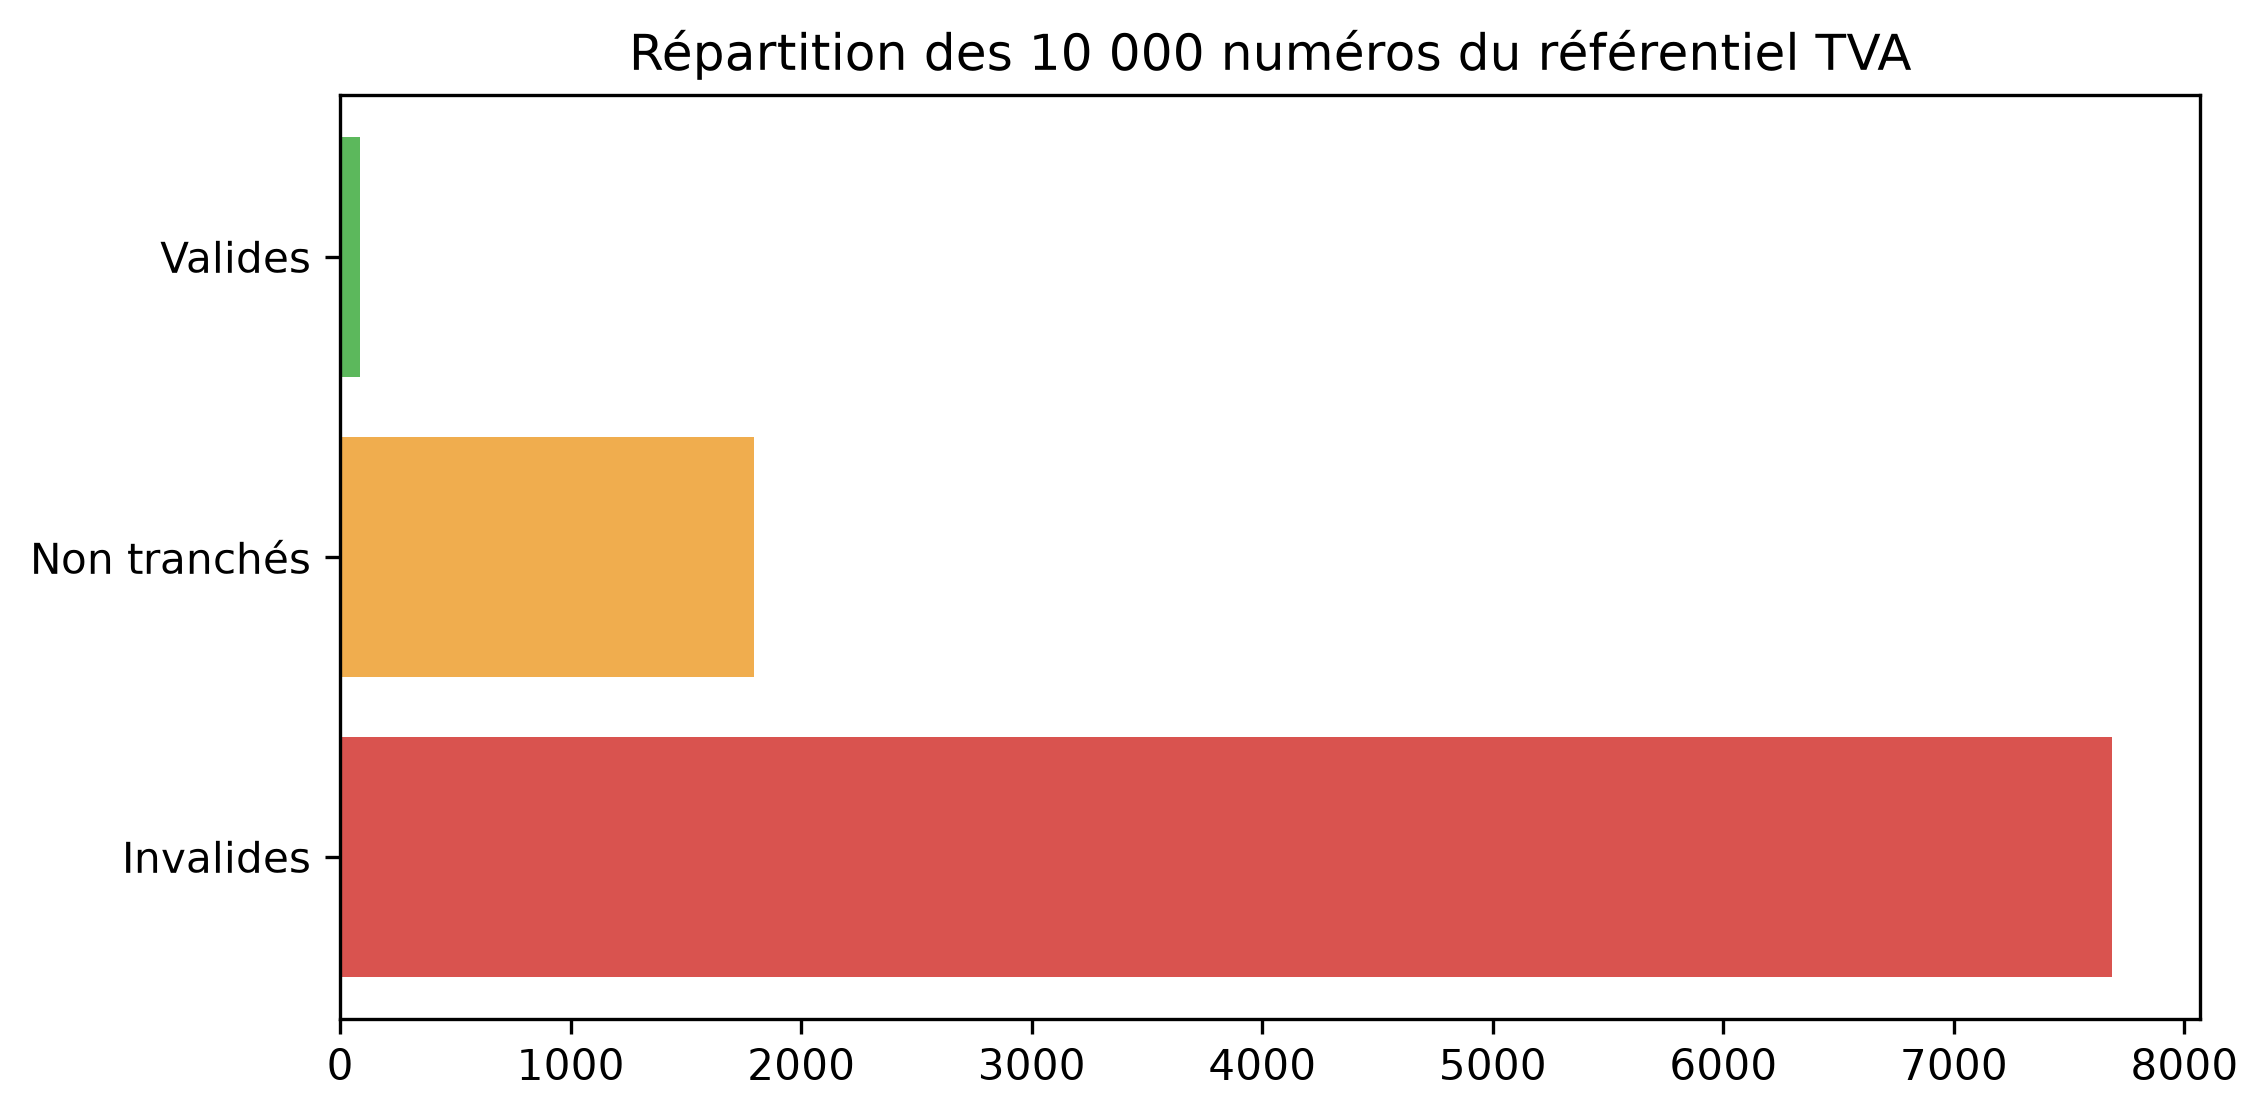
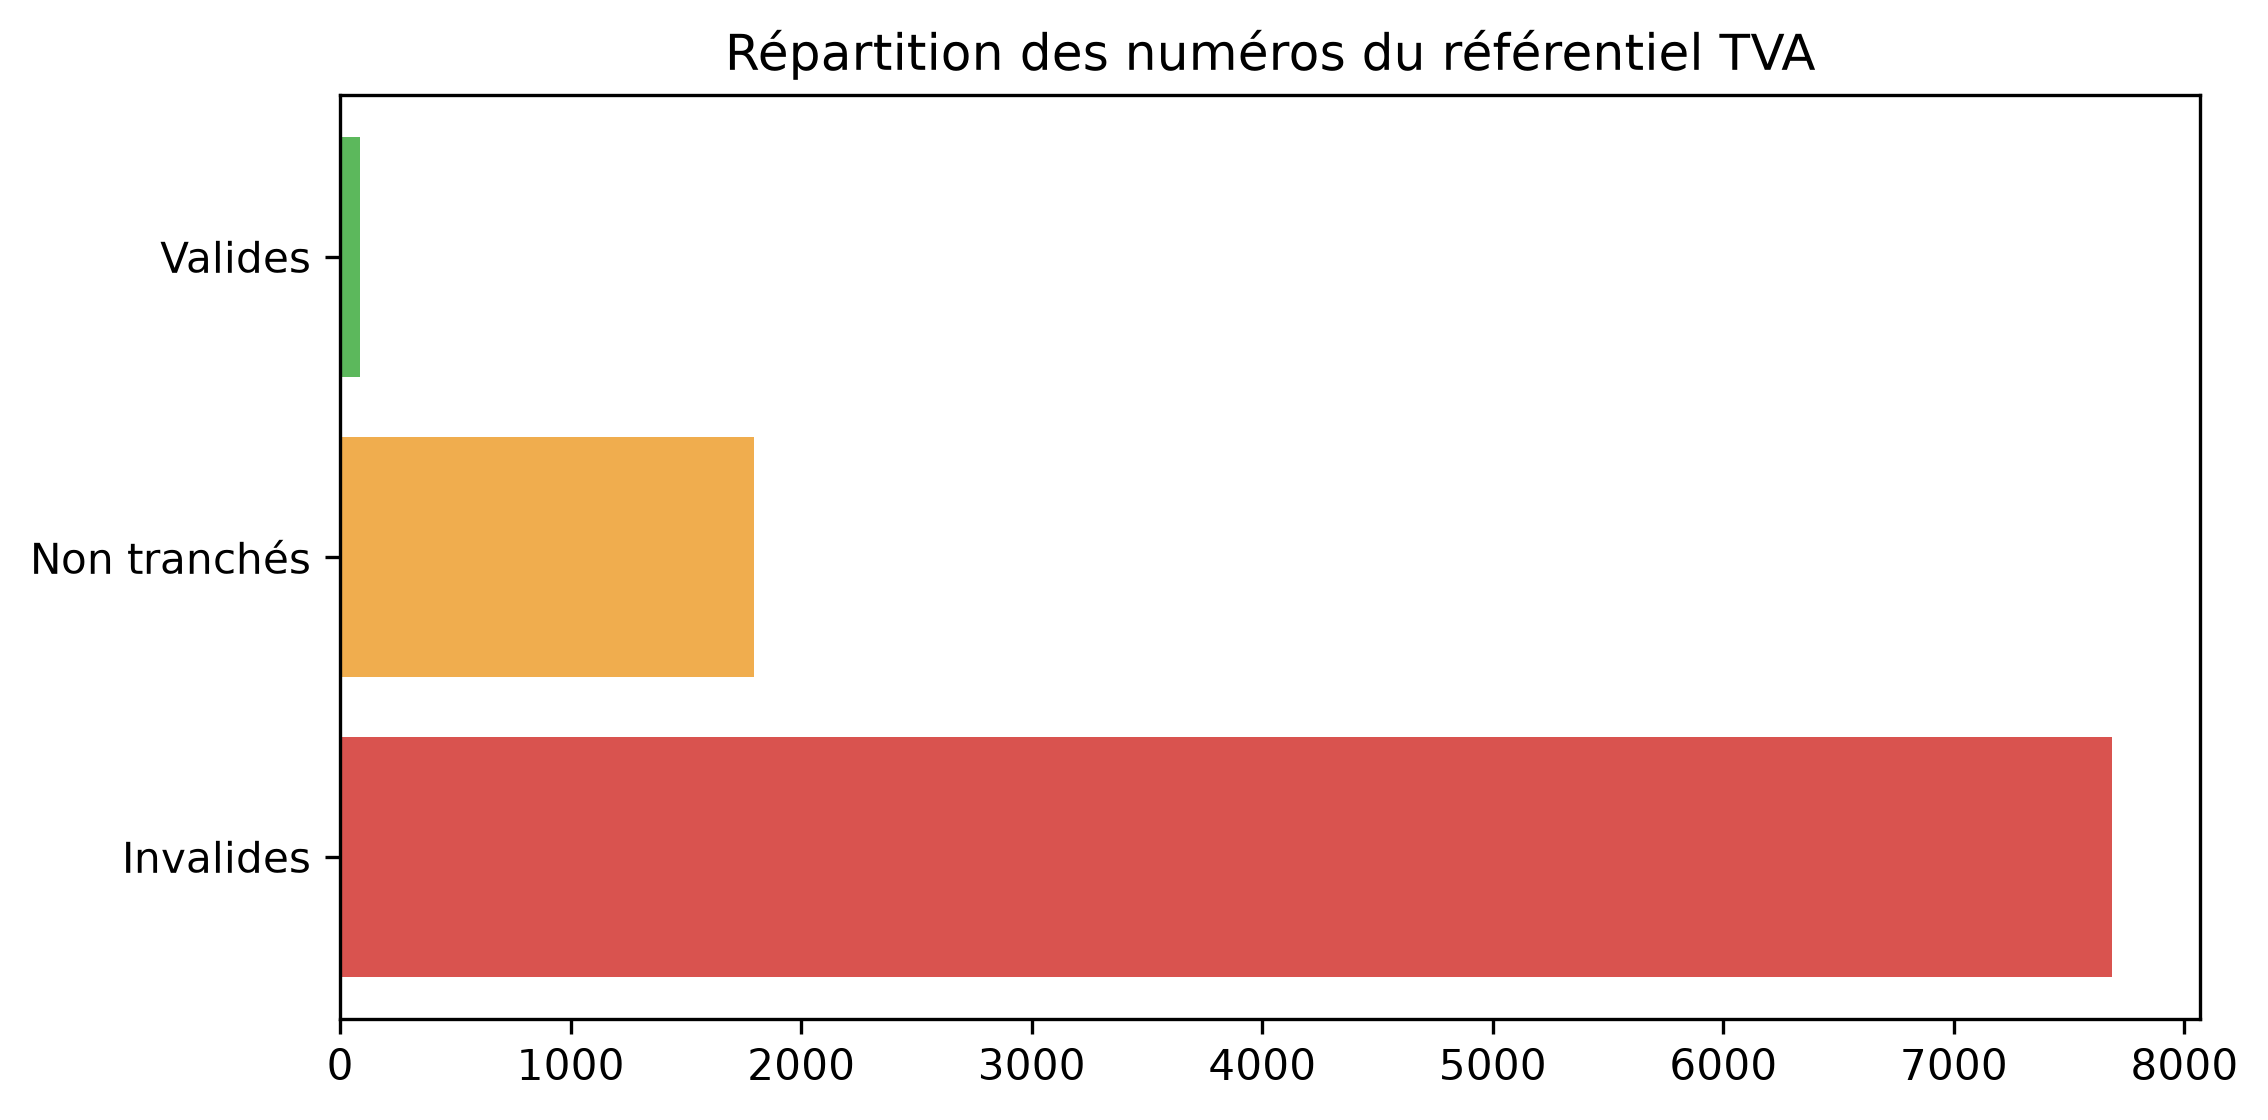
correction graph et notebook analyse ajout de l'historique des commits

Changed region(s): [[0.2778, 0.0312, 0.8642, 0.0625]]

diff --git a/doc/historique_commits.md b/doc/historique_commits.md
@@ -1,7 +1,7 @@
 # Historique des commits
 
 Voici l'historique des travaux réalisés sur les deux jours de mission :
-
+- `456a4be` Phase 3 et 4 : finalisation collecte API, rapport réconciliation et documentation finale - Finalisation du script api/collecte.py avec normalisation et reprise intelligente. - Ajout du rapport de réconciliation et de la note de synthèse. - Création du journal de bord complet avec glossaire. - Ajout de l'historique des commits pour le livrable.
 - `cd19e64` Phase 2 : 5 sur 6 maj du journal de bord et ajout d'un dossier de capture
 - `fb7c206` Etape 2 question 2 sur 6 maj : journal de bord et gitignore
 - `ffd9094` nettoyer gitignore et création du journal de bord dans /doc
